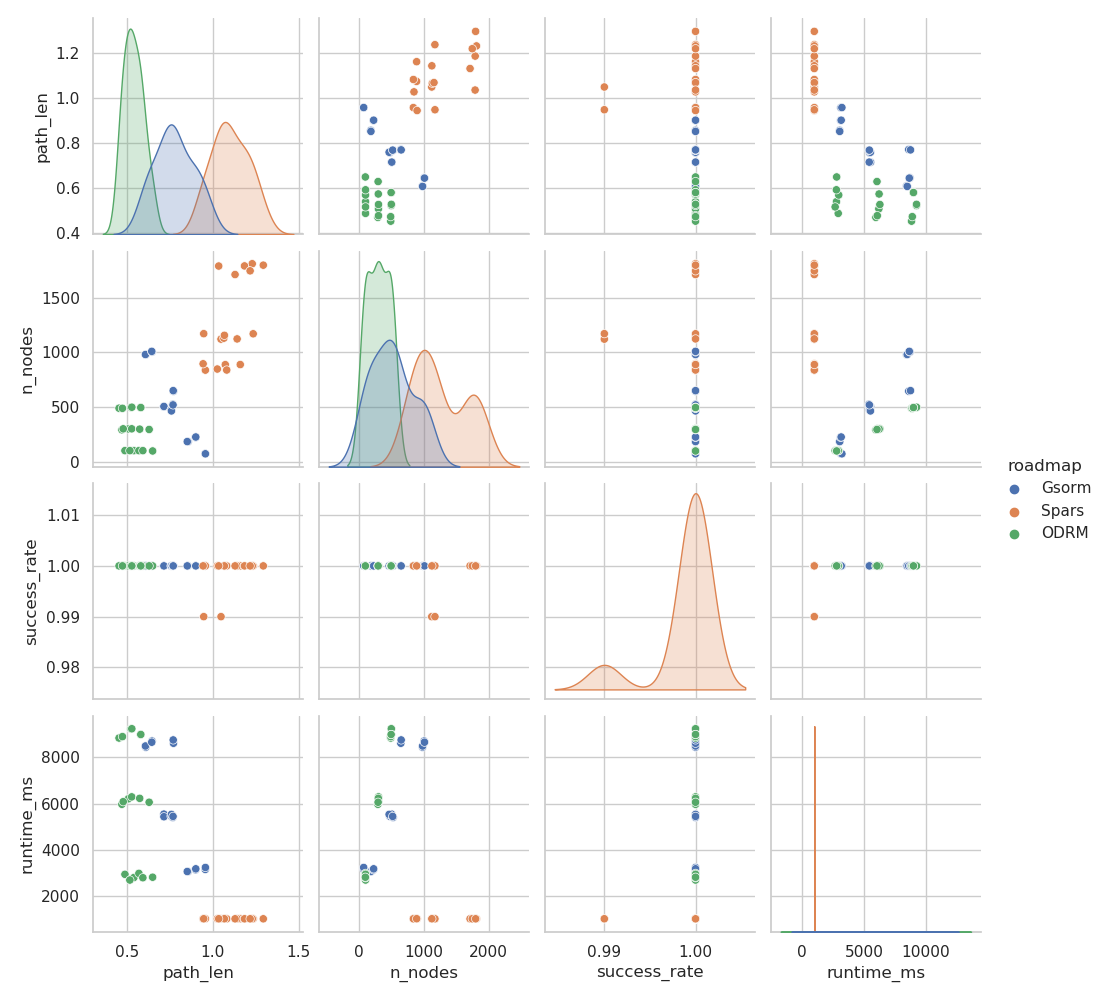
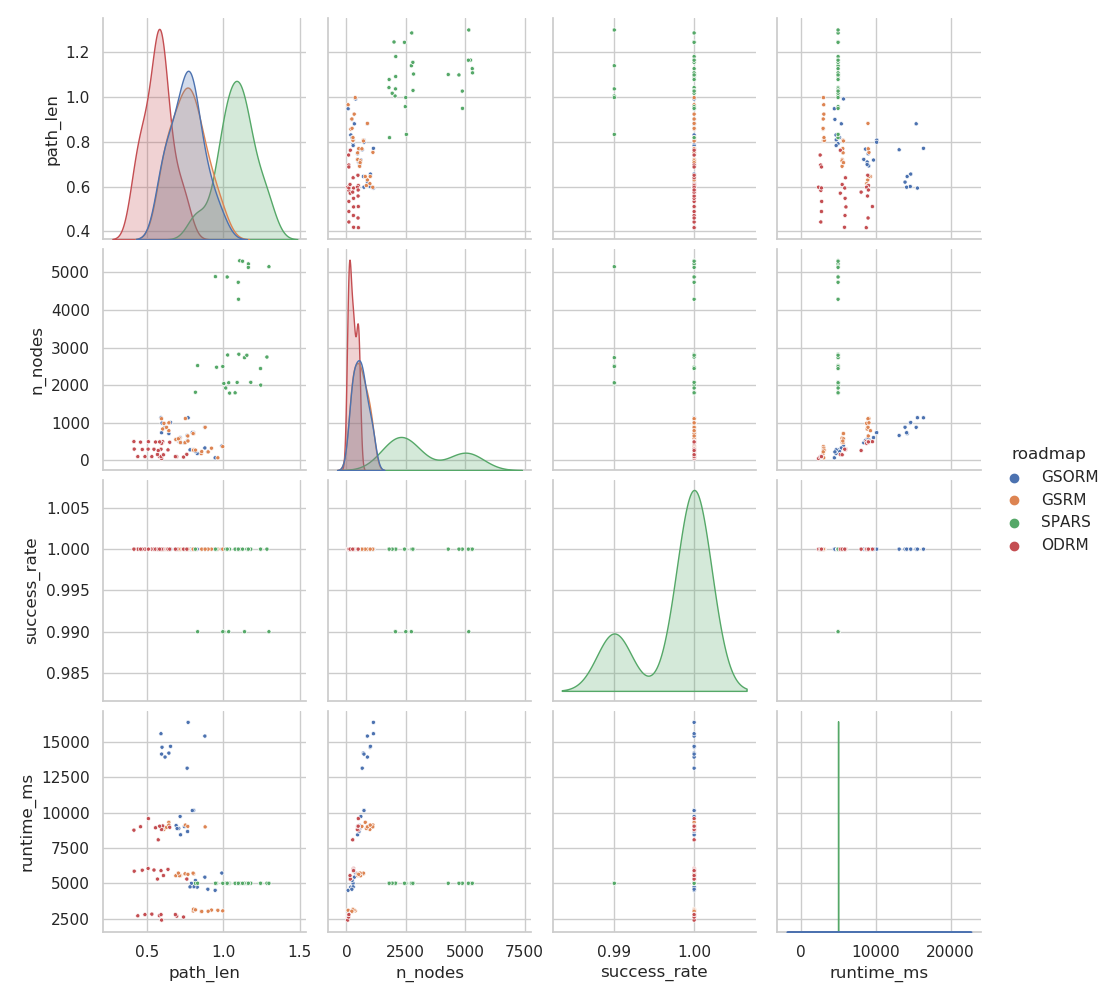
yeah

diff --git a/roadmaps/benchmark.py b/roadmaps/benchmark.py
@@ -69,7 +69,10 @@ class RoadmapToTest:
         return results
 
 
-class Gsorm(RoadmapToTest):
+class GSRM(RoadmapToTest):
+    """Its gsorm without the o.
+    So no optimization, only the generation of the points by the Grey Scott model."""
+
     def __init__(self,
                  map_fname: str,
                  rng: Random,
@@ -91,7 +94,43 @@ class Gsorm(RoadmapToTest):
         self.runtime_ms = runtime_points + runtime_delaunay
 
 
-class Spars(RoadmapToTest):
+class GSORM(RoadmapToTest):
+    def __init__(self,
+                 map_fname: str,
+                 rng: Random,
+                 roadmap_specific_kwargs):
+        super().__init__(map_fname, rng, roadmap_specific_kwargs)
+        from roadmaps.gsorm.build.libgsorm import Gsorm
+        from roadmaps.var_odrm_torch.var_odrm_torch import (
+            make_graph_and_flann, optimize_poses, sample_points)
+
+        # prepare args
+        gsorm_kwargs = self.roadmap_specific_kwargs.copy()
+        epochs_optim = gsorm_kwargs.pop("epochs_optim", None)
+        lr_optim = gsorm_kwargs.pop("lr_optim", None)
+
+        # run gsorm
+        gs = Gsorm()
+        nodes, runtime_points = gs.run(
+            mapFile=map_fname,
+            **gsorm_kwargs,
+        )
+        pos = torch.Tensor(nodes) / len(self.map_img)
+        pos.requires_grad = True
+        n = pos.shape[0]
+
+        # optimize
+        optimizer = torch.optim.Adam([pos], lr=lr_optim)
+        start_t = timeit.default_timer()
+        self.g, _ = make_graph_and_flann(pos, self.map_img, n, rng)
+        for i_e in tqdm(range(epochs_optim)):
+            self.g, pos, test_length, training_length = optimize_poses(
+                self.g, pos, self.map_img, optimizer, n, rng)
+        runtime_optim = (timeit.default_timer() - start_t) * 1000
+        self.runtime_ms = runtime_points + runtime_optim
+
+
+class SPARS(RoadmapToTest):
     def __init__(self,
                  map_fname: str,
                  rng: Random,
@@ -164,7 +203,40 @@ def run():
     df = pd.DataFrame()
 
     trials = [
-        (Gsorm, {
+        (GSORM, {
+            "DA": 0.14,
+            "DB": 0.06,
+            "f": 0.035,
+            "k": 0.065,
+            "delta_t": 1.0,
+            "iterations": 5000,  # of grey scott model
+            "resolution": 300,
+            "epochs_optim": 25,  # of optimization
+            "lr_optim": 1e-3,
+        }),
+        (GSORM, {
+            "DA": 0.14,
+            "DB": 0.06,
+            "f": 0.035,
+            "k": 0.065,
+            "delta_t": 1.0,
+            "iterations": 5000,
+            "resolution": 400,
+            "epochs_optim": 25,  # of optimization
+            "lr_optim": 1e-3,
+        }),
+        (GSORM, {
+            "DA": 0.14,
+            "DB": 0.06,
+            "f": 0.035,
+            "k": 0.065,
+            "delta_t": 1.0,
+            "iterations": 5000,
+            "resolution": 500,
+            "epochs_optim": 25,  # of optimization
+            "lr_optim": 1e-3,
+        }),
+        (GSRM, {
             "DA": 0.14,
             "DB": 0.06,
             "f": 0.035,
@@ -173,7 +245,7 @@ def run():
             "iterations": 10000,
             "resolution": 300,
         }),
-        (Gsorm, {
+        (GSRM, {
             "DA": 0.14,
             "DB": 0.06,
             "f": 0.035,
@@ -182,7 +254,7 @@ def run():
             "iterations": 10000,
             "resolution": 400,
         }),
-        (Gsorm, {
+        (GSRM, {
             "DA": 0.14,
             "DB": 0.06,
             "f": 0.035,
@@ -191,26 +263,26 @@ def run():
             "iterations": 10000,
             "resolution": 500,
         }),
-        (Spars, {
+        (SPARS, {
             "denseDelta":    10.,
             "sparseDelta":    100,
             "stretchFactor": 1.01,
             "maxFailures": 500,
-            "maxTime": 1.,
+            "maxTime": 5.,
         }),
-        (Spars, {
+        (SPARS, {
             "denseDelta":    7.,
             "sparseDelta":    70.,
             "stretchFactor": 1.01,
             "maxFailures": 500,
-            "maxTime": 1.,
+            "maxTime": 5.,
         }),
-        (Spars, {
+        (SPARS, {
             "denseDelta":    3.,
             "sparseDelta":    30.,
             "stretchFactor": 1.01,
             "maxFailures": 500,
-            "maxTime": 1.,
+            "maxTime": 5.,
         }),
         (ODRM, {
             "n": 100,
@@ -229,8 +301,18 @@ def run():
         })
     ]
     for cls, args in trials:
-        for map_name in ["c", "x", "z"]:
-            for seed in range(2):
+        for map_name in [
+            "c",
+            "dual_w",
+            "dual",
+            "dual2",
+            "o",
+            "plain",
+            "simple",
+            "x",
+            "z"
+        ]:
+            for seed in range(1):
                 i = len(df) + 1  # new experiment in new row
                 map_fname = f"roadmaps/odrm/odrm_eval/maps/{map_name}.png"
                 df.at[i, "map"] = map_name
@@ -250,11 +332,37 @@ def run():
 def plot():
     df = pd.read_csv(CSV_PATH)
     sns.set_theme(style="whitegrid")
-    sns.pairplot(df, hue="roadmap", vars=[
-                 "path_len", "n_nodes", "success_rate", "runtime_ms"])
-    plt.savefig(CSV_PATH.replace(".csv", ".png"))
+    sns.pairplot(
+        df,
+        hue="roadmap",
+        vars=[
+            "path_len",
+            "n_nodes",
+            "success_rate",
+            "runtime_ms"
+        ],
+        markers=".",
+    )
+    plt.saveplto(CSV_PATH.replace(".csv", ".png"))
+
+    for roadmap in df.roadmap.unique():
+        df_roadmap = df[df.roadmap == roadmap]
+        sns.set_theme(style="whitegrid")
+        sns.pairplot(
+            df_roadmap,
+            hue="map",
+            x_vars=[
+                col for col in df_roadmap.columns if col.startswith(roadmap)],
+            y_vars=[
+                "path_len",
+                "n_nodes",
+                "success_rate",
+                "runtime_ms"
+            ],
+        )
+        plt.savefig(CSV_PATH.replace(".csv", f"_{roadmap}.png"))
 
 
 if __name__ == "__main__":
-    run()
+    # run()
     plot()
